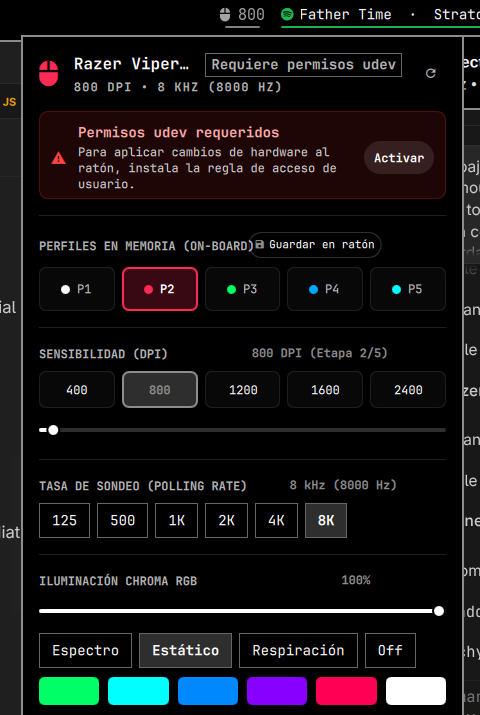
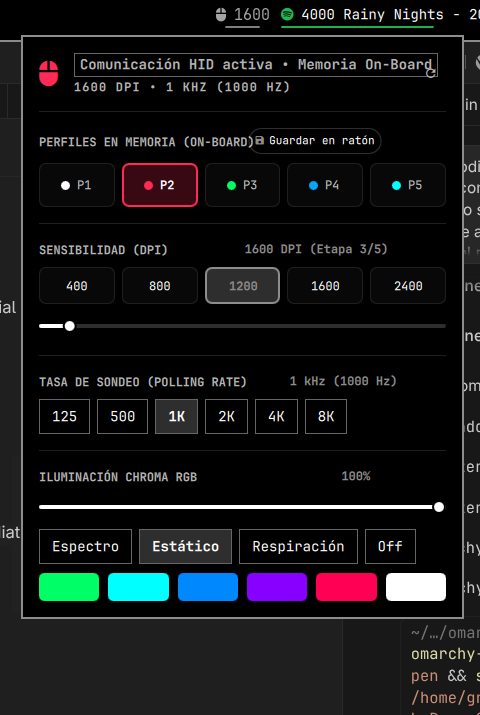
Polish hero detail badge: compact text so full Razer Viper 8KHz title displays

diff --git a/Panel.qml b/Panel.qml
@@ -284,7 +284,7 @@ Panel {
             width: parent.width
             title: root.deviceName
             meta: root.deviceConnected ? (root.currentDpi + " DPI • " + Model.pollRateLabel(root.currentPollRate)) : "Dispositivo no detectado"
-            detail: root.deviceConnected ? (root.hasPermission ? "Comunicación HID activa • Memoria On-Board" : "Requiere permisos udev") : "Conecta tu ratón Razer por USB"
+            detail: root.deviceConnected ? (root.hasPermission ? "On-Board" : "Permisos udev") : "Desconectado"
             foreground: root.foreground
             fontFamily: root.fontFamily
             iconOpacity: root.deviceConnected ? 1.0 : 0.4
